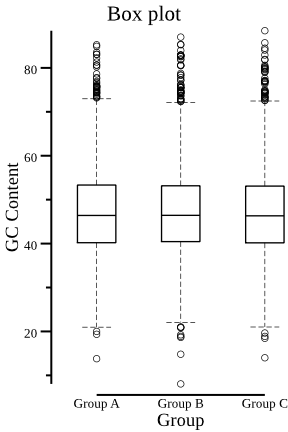
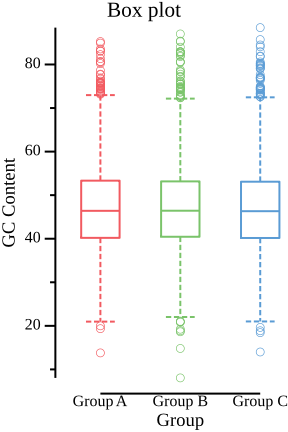
plot: add a flag --scale

diff --git a/csvtk/cmd/plot.go b/csvtk/cmd/plot.go
@@ -72,6 +72,7 @@ func init() {
 	plotCmd.PersistentFlags().Float64P("axis-width", "", 1.5, "axis width")
 	plotCmd.PersistentFlags().Float64P("tick-width", "", 1.5, "axis tick width")
 	plotCmd.PersistentFlags().IntP("tick-label-size", "", 12, "tick label font size")
+	plotCmd.PersistentFlags().Float64P("scale", "", 1, "scale the image width/height, tick, axes, line/point and font sizes proportionally")
 
 	plotCmd.PersistentFlags().StringP("format", "", "png", `image format for stdout when flag -o/--out-file not given. available values: eps, jpg|jpeg, pdf, png, svg, and tif|tiff.`)
 
@@ -105,13 +106,18 @@ func getPlotConfigs(cmd *cobra.Command) *plotConfigs {
 	}
 
 	config.title = getFlagString(cmd, "title")
-	config.titleSize = vg.Length(getFlagPositiveInt(cmd, "title-size"))
-	config.labelSize = vg.Length(getFlagPositiveInt(cmd, "label-size"))
-	config.width = vg.Length(getFlagPositiveFloat64(cmd, "width"))
-	config.height = vg.Length(getFlagPositiveFloat64(cmd, "height"))
-	config.axisWidth = vg.Length(getFlagPositiveFloat64(cmd, "axis-width"))
-	config.tickWidth = vg.Length(getFlagPositiveFloat64(cmd, "tick-width"))
-	config.tickLabelSize = vg.Length(getFlagPositiveInt(cmd, "tick-label-size"))
+
+	scale := getFlagPositiveFloat64(cmd, "scale")
+	config.scale = scale
+
+	config.titleSize = vg.Length(int(float64(getFlagPositiveInt(cmd, "title-size")) * scale))
+	config.labelSize = vg.Length(int(float64(getFlagPositiveInt(cmd, "label-size")) * scale))
+	config.width = vg.Length(getFlagPositiveFloat64(cmd, "width") * scale)
+	config.height = vg.Length(getFlagPositiveFloat64(cmd, "height") * scale)
+	config.axisWidth = vg.Length(getFlagPositiveFloat64(cmd, "axis-width") * scale)
+	config.tickWidth = vg.Length(getFlagPositiveFloat64(cmd, "tick-width") * scale)
+	config.tickLabelSize = vg.Length(int(float64(getFlagPositiveInt(cmd, "tick-label-size")) * scale))
+
 	config.xlab = getFlagString(cmd, "xlab")
 	config.ylab = getFlagString(cmd, "ylab")
 
@@ -161,6 +167,7 @@ type plotConfigs struct {
 	title, xlab, ylab                     string
 	titleSize, labelSize, tickLabelSize   vg.Length
 	width, height, axisWidth, tickWidth   vg.Length
+	scale                                 float64
 	xmin, xmax, ymin, ymax                float64
 	xminStr, xmaxStr, yminStr, ymaxStr    string
 	format                                string

diff --git a/csvtk/cmd/box.go b/csvtk/cmd/box.go
@@ -32,6 +32,7 @@ import (
 	"github.com/spf13/cobra"
 	"gonum.org/v1/plot"
 	"gonum.org/v1/plot/plotter"
+	"gonum.org/v1/plot/plotutil"
 	"gonum.org/v1/plot/vg"
 )
 
@@ -67,6 +68,14 @@ Notes:
 		if skipNA && len(naValues) == 0 {
 			log.Errorf("the value of --na-values should not be empty when using --skip-na")
 		}
+
+		lineWidth := vg.Points(getFlagPositiveFloat64(cmd, "line-width") * plotConfig.scale)
+		pointSize := vg.Length(getFlagPositiveFloat64(cmd, "point-size") * plotConfig.scale)
+		colorIndex := getFlagPositiveInt(cmd, "color-index")
+		if colorIndex > 7 {
+			checkError(fmt.Errorf("unsupported color index"))
+		}
+
 		naMap := make(map[string]interface{}, len(naValues))
 		for _, na := range naValues {
 			naMap[strings.ToLower(na)] = struct{}{}
@@ -148,6 +157,7 @@ Notes:
 		}
 
 		groupNames := make([]string, len(groupOrders))
+		j := colorIndex - 1
 		for i, group := range groupOrders {
 			groupNames[i] = group.Key
 			b, err := plotter.NewBoxPlot(w, float64(i), groups[group.Key])
@@ -156,6 +166,20 @@ Notes:
 				b.Horizontal = true
 			}
 			p.Add(b)
+
+			b.BoxStyle.Color = plotutil.Color(j)
+			b.BoxStyle.Width = lineWidth
+
+			b.MedianStyle.Color = plotutil.Color(j)
+			b.MedianStyle.Width = lineWidth
+
+			b.WhiskerStyle.Color = plotutil.Color(j)
+			b.WhiskerStyle.Width = lineWidth
+
+			b.GlyphStyle.Color = plotutil.Color(j)
+			b.GlyphStyle.Radius = pointSize
+
+			j++
 		}
 
 		if !horiz {
@@ -236,4 +260,8 @@ func init() {
 
 	boxCmd.Flags().Float64P("box-width", "", 0, "box width")
 	boxCmd.Flags().BoolP("horiz", "", false, "horize box plot")
+
+	boxCmd.Flags().Float64P("line-width", "", 1.5, "line width")
+	boxCmd.Flags().Float64P("point-size", "", 3, "point size")
+	boxCmd.Flags().IntP("color-index", "", 1, `color index, 1-7`)
 }

diff --git a/csvtk/cmd/line.go b/csvtk/cmd/line.go
@@ -62,9 +62,9 @@ Notes:
 		}
 		runtime.GOMAXPROCS(config.NumCPUs)
 
-		lineWidth := vg.Points(getFlagPositiveFloat64(cmd, "line-width"))
-		pointSize := vg.Length(getFlagPositiveFloat64(cmd, "point-size"))
 		scatter := getFlagBool(cmd, "scatter")
+		lineWidth := vg.Points(getFlagPositiveFloat64(cmd, "line-width") * plotConfig.scale)
+		pointSize := vg.Length(getFlagPositiveFloat64(cmd, "point-size") * plotConfig.scale)
 		colorIndex := getFlagPositiveInt(cmd, "color-index")
 		if colorIndex > 7 {
 			checkError(fmt.Errorf("unsupported color index"))
@@ -206,6 +206,7 @@ Notes:
 			if !scatter {
 				lines, points, err := plotter.NewLinePoints(v)
 				checkError(err)
+				fmt.Fprintln(os.Stderr, i)
 				lines.Color = plotutil.Color(i)
 				lines.LineStyle.Dashes = plotutil.Dashes(i)
 				lines.LineStyle.Width = lineWidth

diff --git a/csvtk/cmd/hist.go b/csvtk/cmd/hist.go
@@ -56,6 +56,8 @@ Notes:
 		config := getConfigs(cmd)
 		plotConfig := getPlotConfigs(cmd)
 
+		lineWidth := vg.Points(getFlagPositiveFloat64(cmd, "line-width") * plotConfig.scale)
+
 		files := getFileListFromArgsAndFile(cmd, args, true, "infile-list", true)
 		if len(files) > 1 {
 			checkError(fmt.Errorf("no more than one file should be given"))
@@ -137,6 +139,7 @@ Notes:
 
 		// h.Normalize(1)
 		h.FillColor = plotutil.Color(colorIndex - 1)
+		h.LineStyle.Width = lineWidth
 		p.Add(h)
 
 		p.Title.Text = plotConfig.title
@@ -192,5 +195,7 @@ func init() {
 	histCmd.Flags().IntP("bins", "", 50, `number of bins`)
 	histCmd.Flags().IntP("color-index", "", 1, `color index, 1-7`)
 	histCmd.Flags().BoolP("percentiles", "", false, `calculate percentiles`)
+
+	histCmd.Flags().Float64P("line-width", "", 1, "line width")
 
 }

diff --git a/doc/docs/usage.md b/doc/docs/usage.md
@@ -4180,27 +4180,29 @@ Available Commands:
   line        line plot and scatter plot
 
 Flags:
-      --axis-width float     axis width (default 1.5)
-  -f, --data-field string    column index or column name of data (default "1")
-      --format string        image format for stdout when flag -o/--out-file not given. available
-                             values: eps, jpg|jpeg, pdf, png, svg, and tif|tiff. (default "png")
-  -g, --group-field string   column index or column name of group
-      --height float         Figure height (default 4.5)
-  -h, --help                 help for plot
-      --label-size int       label font size (default 14)
-      --na-values strings    NA values, case ignored (default [,NA,N/A])
-      --skip-na              skip NA values in --na-values
+      --axis-width float      axis width (default 1.5)
+  -f, --data-field string     column index or column name of data (default "1")
+      --format string         image format for stdout when flag -o/--out-file not given. available
+                              values: eps, jpg|jpeg, pdf, png, svg, and tif|tiff. (default "png")
+  -g, --group-field string    column index or column name of group
+      --height float          Figure height (default 4.5)
+  -h, --help                  help for plot
+      --label-size int        label font size (default 14)
+      --na-values strings     NA values, case ignored (default [,NA,N/A])
+      --scale float           scale the image width/height, tick, axes, line/point and font sizes
+                              proportionally (default 1)
+      --skip-na               skip NA values in --na-values
       --tick-label-size int   tick label font size (default 12)
-      --tick-width float     axis tick width (default 1.5)
-      --title string         Figure title
-      --title-size int       title font size (default 16)
-      --width float          Figure width (default 6)
-      --x-max string         maximum value of X axis
-      --x-min string         minimum value of X axis
-      --xlab string          x label text
-      --y-max string         maximum value of Y axis
-      --y-min string         minimum value of Y axis
-      --ylab string          y label text
+      --tick-width float      axis tick width (default 1.5)
+      --title string          Figure title
+      --title-size int        title font size (default 16)
+      --width float           Figure width (default 6)
+      --x-max string          maximum value of X axis
+      --x-min string          minimum value of X axis
+      --xlab string           x label text
+      --y-max string          maximum value of Y axis
+      --y-min string          minimum value of Y axis
+      --ylab string           y label text
 
 ```
 
@@ -4236,8 +4238,11 @@ Usage:
   csvtk plot hist [flags]
 
 Flags:
-      --bins int          number of bins (default 50)
-      --color-index int   color index, 1-7 (default 1)
+      --bins int           number of bins (default 50)
+      --color-index int    color index, 1-7 (default 1)
+  -h, --help               help for hist
+      --line-width float   line width (default 1)
+      --percentiles        calculate percentiles
 
 ```
 
@@ -4284,8 +4289,12 @@ Usage:
   csvtk plot box [flags]
 
 Flags:
-      --box-width float   box width
-      --horiz             horize box plot
+      --box-width float    box width
+      --color-index int    color index, 1-7 (default 1)
+  -h, --help               help for box
+      --horiz              horize box plot
+      --line-width float   line width (default 1.5)
+      --point-size float   point size (default 3)
 
 ```
 
@@ -4329,8 +4338,10 @@ Usage:
   csvtk plot line [flags]
 
 Flags:
+      --color-index int       color index, 1-7 (default 1)
   -x, --data-field-x string   column index or column name of X for command line
   -y, --data-field-y string   column index or column name of Y for command line
+  -h, --help                  help for line
       --legend-left           locate legend along the left edge of the plot
       --legend-top            locate legend along the top edge of the plot
       --line-width float      line width (default 1.5)

diff --git a/CHANGELOG.md b/CHANGELOG.md
@@ -19,9 +19,16 @@
         - do not show progress.
     - `csvtk fix-quotes`:
         - new flag `-b, --buffer-size`.
+    - `csvtk plot`:
+        - new flag `--scale` for scaling the image width/height, tick, axes, line/point and font sizes proportionally, adviced by @tseemann.
     - `csvtk plot line`:
         - only add legend for more than one group. [#279](https://github.com/shenwei356/csvtk/issues/279)
         - sort points by X for plotting lines. [#280](https://github.com/shenwei356/csvtk/issues/280)
+    - `csvtk hist`:
+        - new flags: `--line-width`.
+    - `csvtk box`:
+        - plots of different groups have different colors now.
+        - new flags: `--line-width`, `--point-size`, and `color-index`.
 - [csvtk v0.30.0](https://github.com/shenwei356/csvtk/releases/tag/v0.30.0)
 [![Github Releases (by Release)](https://img.shields.io/github/downloads/shenwei356/csvtk/v0.30.0/total.svg)](https://github.com/shenwei356/csvtk/releases/tag/v0.30.0)
   - `csvtk`:

diff --git a/README.md b/README.md
@@ -401,7 +401,7 @@ Examples
     group information is the "Group" column.
     
             csvtk -t plot box testdata/grouped_data.tsv.gz -g "Group" \
-                -f "GC Content" --width 3 | display
+                -f "GC Content" --width 3 --title "Box plot" | display
             
       ![boxplot.png](testdata/figures/boxplot.png)
       
